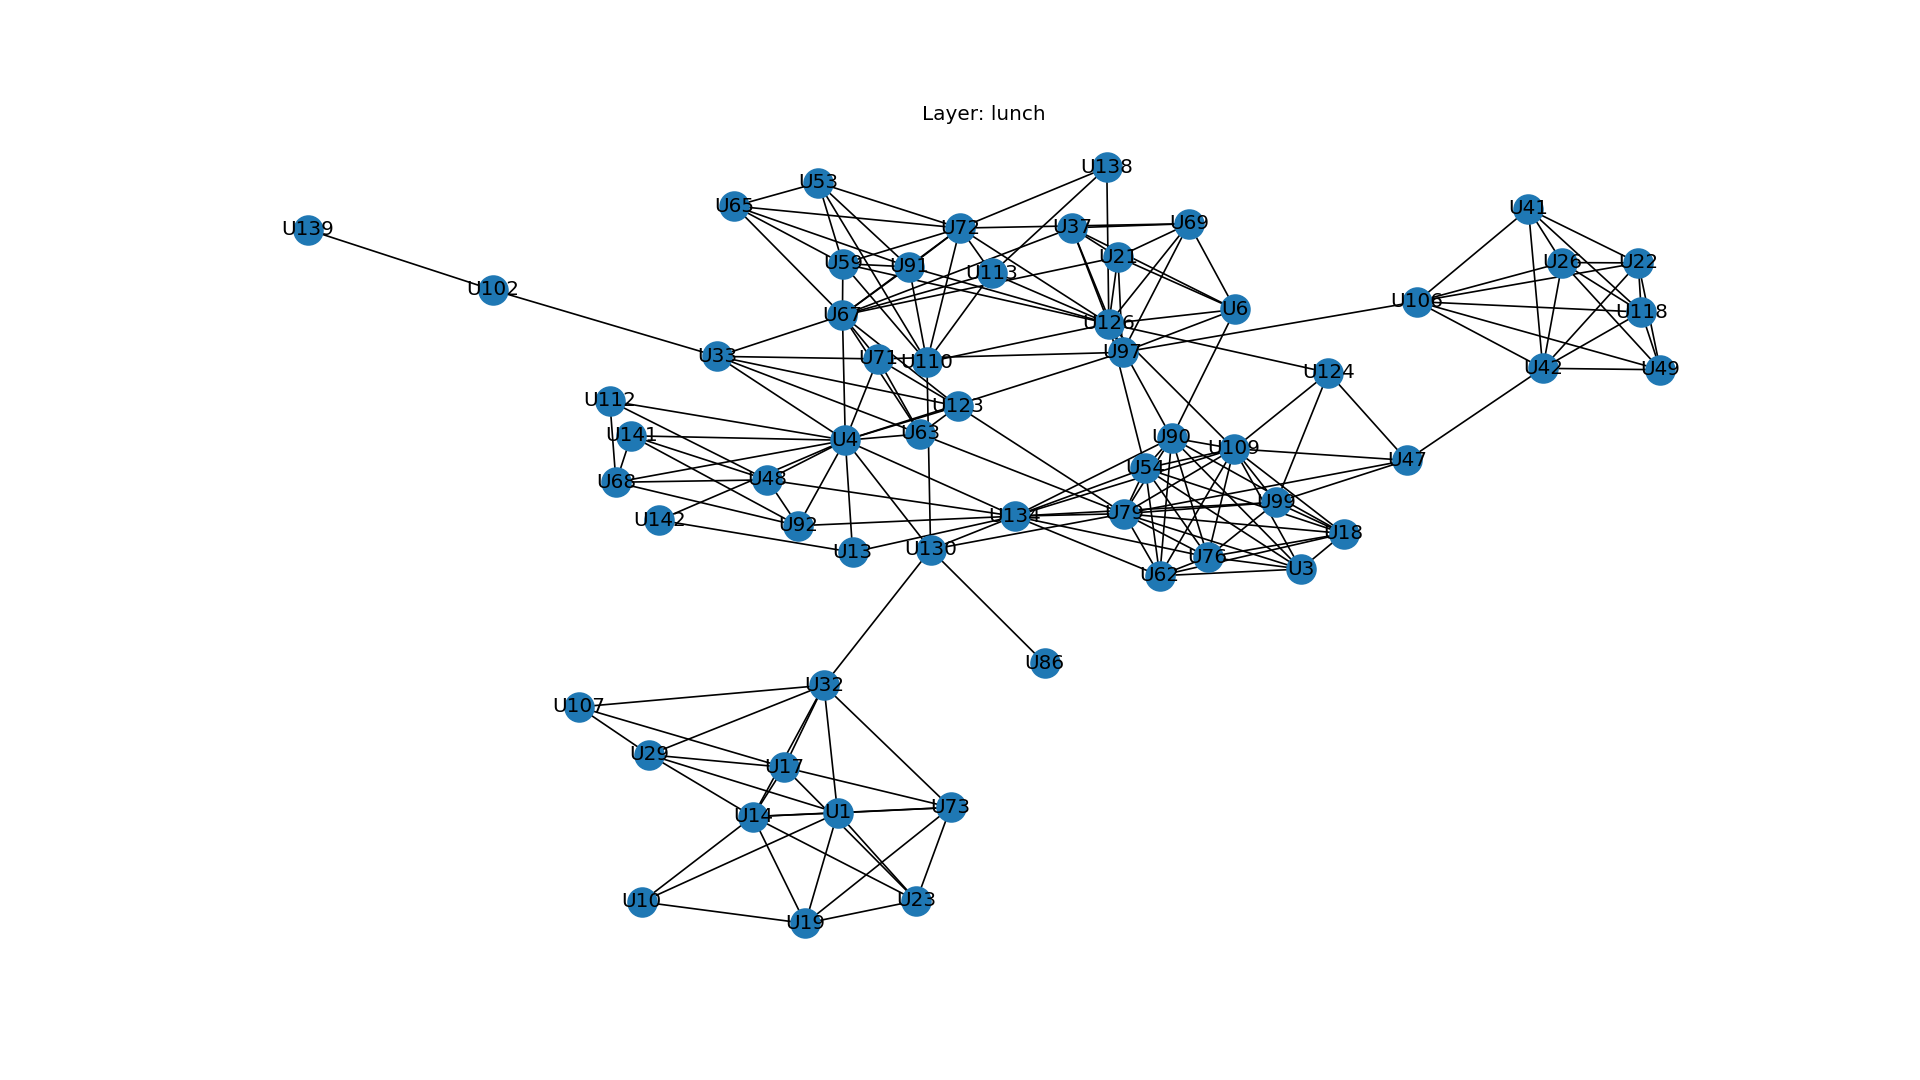
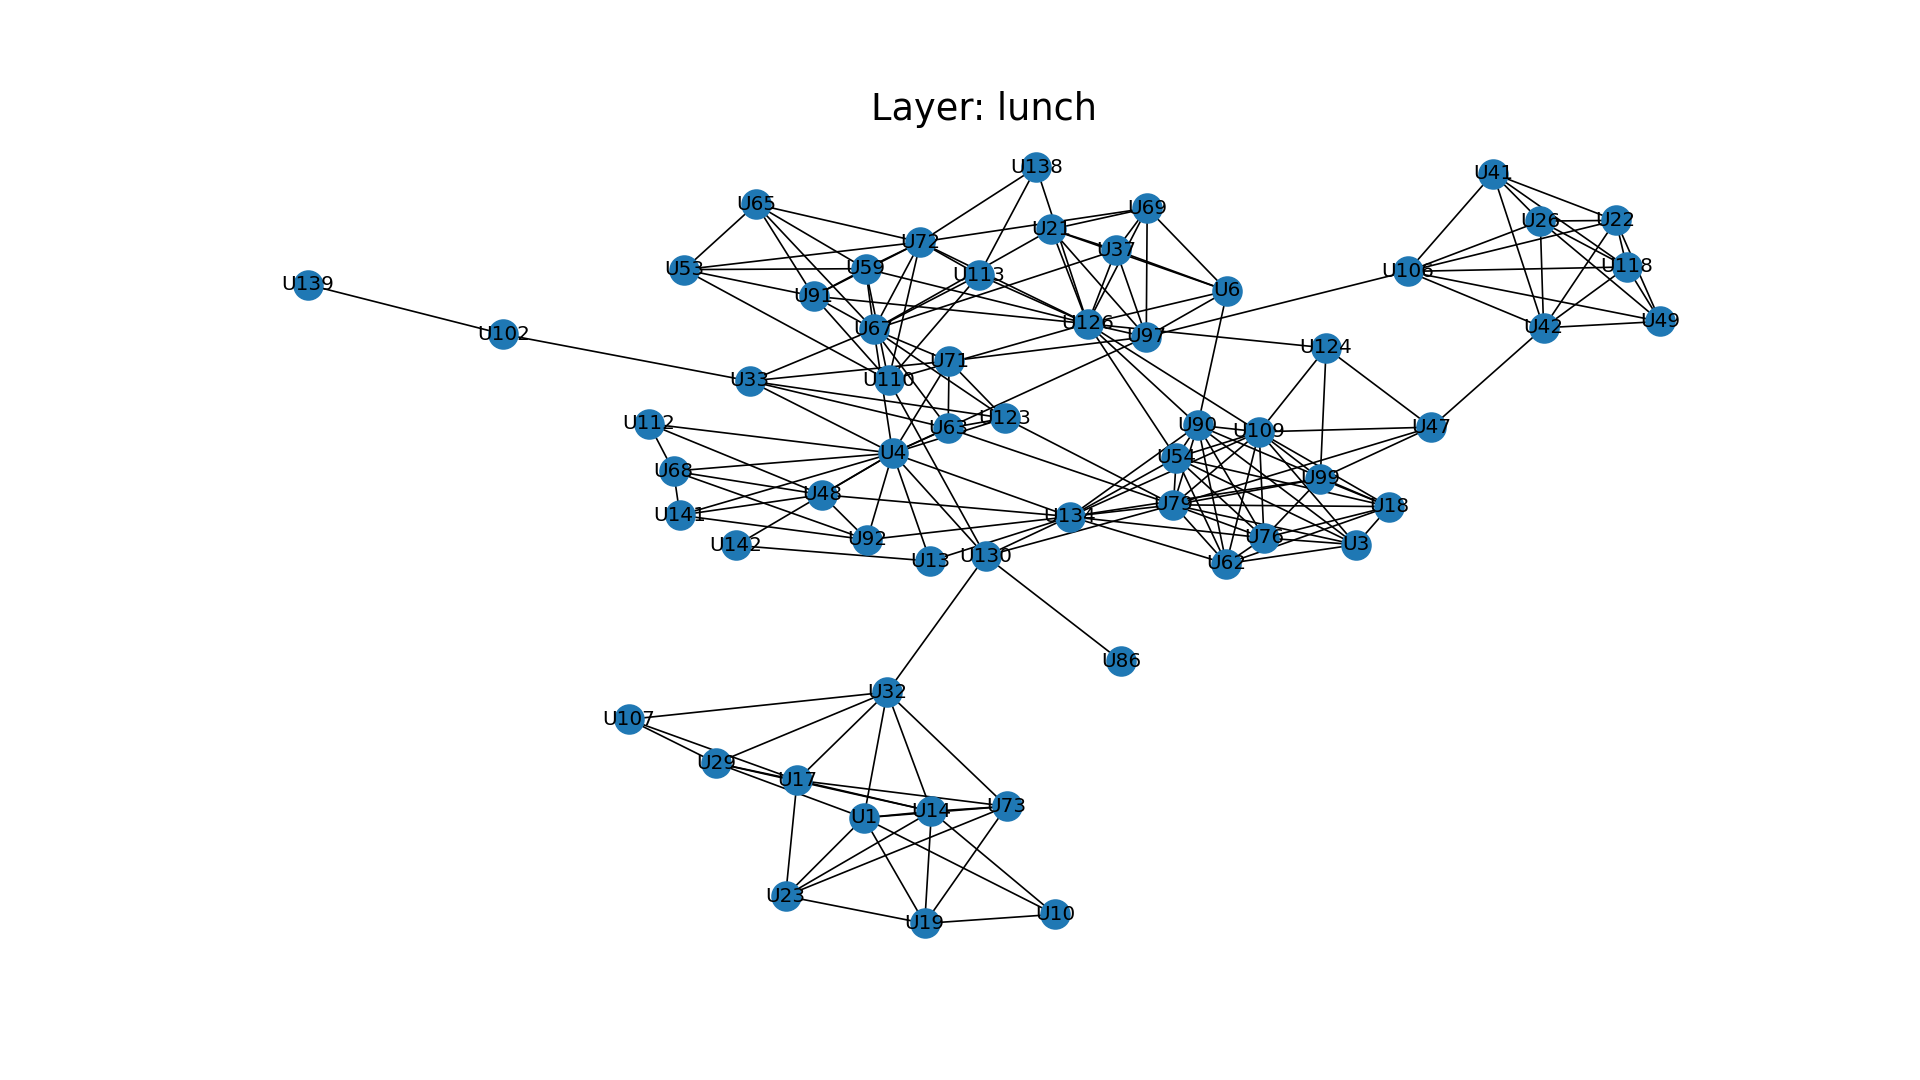
Adds main_aucs module

diff --git a/main/main_degree.py b/main/main_degree.py
@@ -4,7 +4,7 @@ from algo.layer_centrality import compute_multinet_layer_centrality
 from algo.analysis import compute_shannon_entropy
 from algo.kmeans_clustering import compute_clusters
 from algo.communities_clustering import create_layer_combinations_node_communities
-from utils.data_helper import draw_layers, get_node_connections_on_layers
+from utils.data_helper import get_node_connections_on_layers
 from utils.results_helper import plot_results_histograms, draw_results_layers, \
     save_results_analysis_data_frames_as_xlsx, save_results_data_frame_as_xlsx, \
     draw_flattened_network_clustering_results, draw_network_clustering_results
@@ -28,8 +28,6 @@ create_layer_combinations_node_communities(
     True
 )
 '''
-
-# draw_layers("aucs", multilayered_network, True)
 
 results_data_frame = DataFrame.from_dict(nodes_layer_centrality_dict).T.sort_index(axis=1)
 results_data_frame['shannon_entropy'] = Series(nodes_shannon_entropy_dict, index=results_data_frame.index)

diff --git a/utils/data_helper.py b/utils/data_helper.py
@@ -59,7 +59,7 @@ def draw_layers(
 
         # Set fig size 1920x1080 pixels
         plt.figure(figsize=(16, 9), dpi=120)
-        plt.title("Layer: {0}".format(layer_name))
+        plt.title("Layer: {0}".format(layer_name), fontdict={'size': 22})
         pos = nx_agraph.graphviz_layout(layer, prog='neato')
         draw(layer, pos=pos, with_labels=True)
         plt.draw()

diff --git a/main/main_aucs.py b/main/main_aucs.py
@@ -1,0 +1,8 @@
+from uunet.multinet import data
+from utils.data_helper import draw_layers
+
+DATASET_NAME = "aucs"
+
+multilayered_network = data(DATASET_NAME)
+
+draw_layers("aucs", multilayered_network, True)
